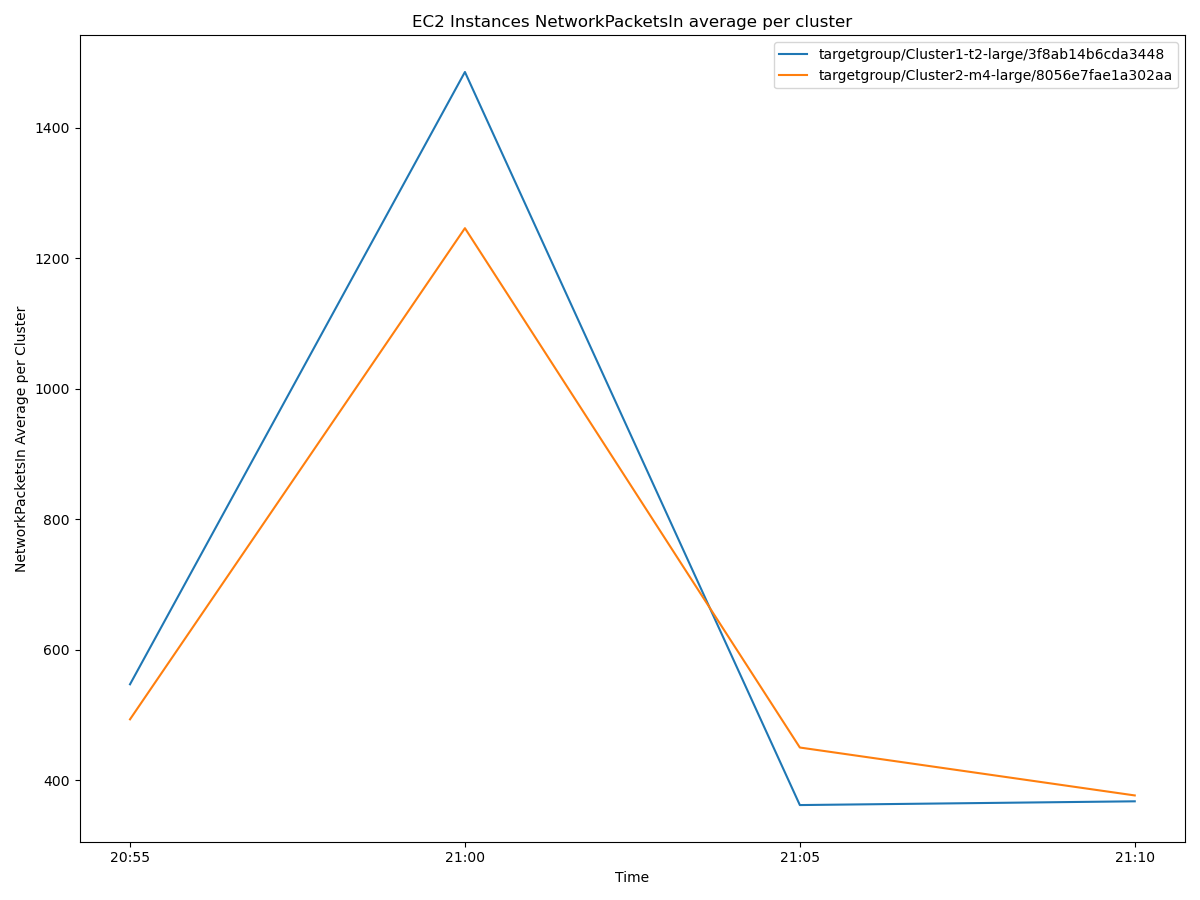
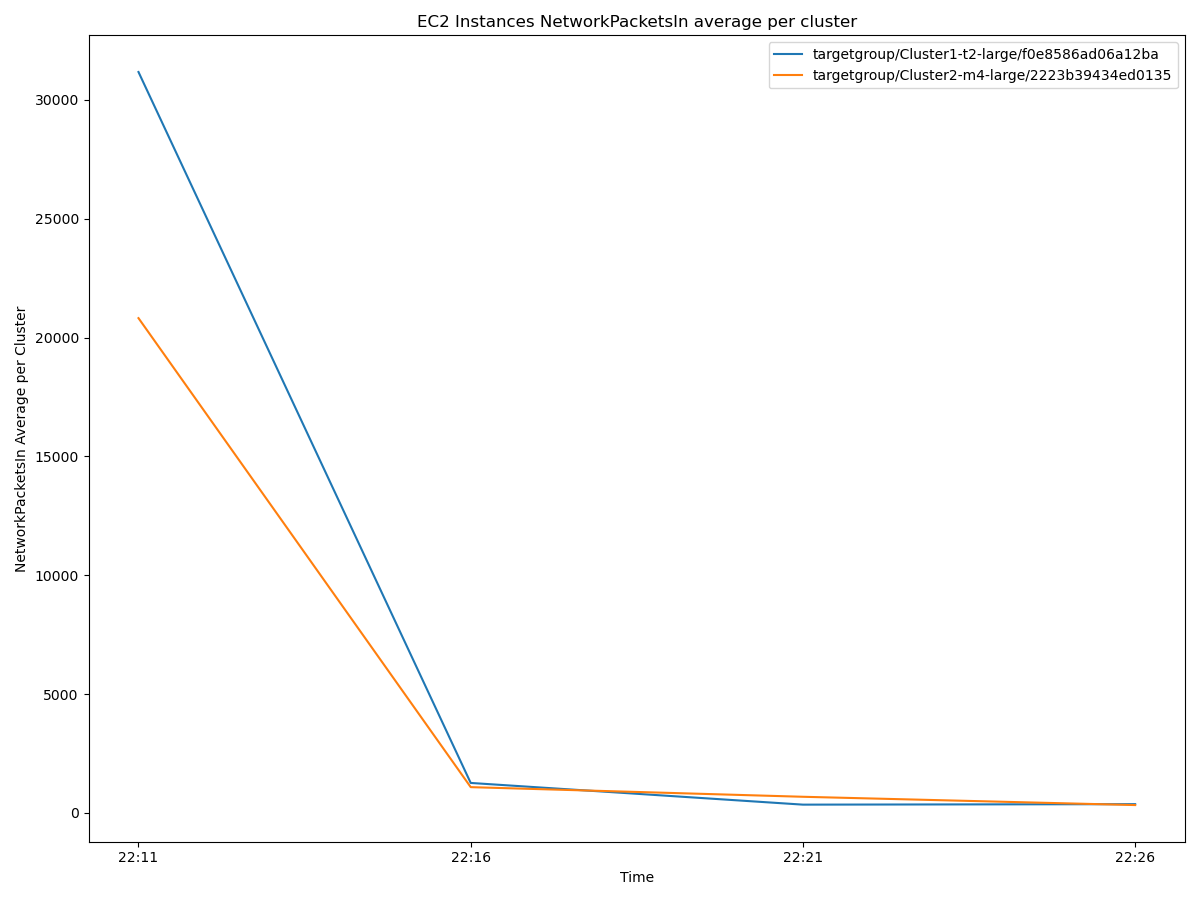
debug metrics code+add plots

diff --git a/TP1/main.py b/TP1/main.py
@@ -155,7 +155,7 @@ if __name__ == '__main__':
     print("\nTarget groups created")
 
     #time to wait for udate ec2 running status before registration in target groups
-    print("\nWaiting for EC2 to become on running status before registration in Target groups")
+    print("\nWaiting for EC2 instances to become on running status before registration in Target groups...")
     time.sleep(120)
 
     #---------------------------------------------Register Targets on target groups --------------------------------------------------
@@ -244,68 +244,88 @@ if __name__ == '__main__':
     #---------------------------------------------Plot metrics -----------------------------------------------------------------------
     #Create Cloudwatch client
     Cloudwatch_client=client_cloudwatch(key_id, access_key, session_token)
-    Cloudwatch_client.list_metrics(Namespace='AWS/EC2',Dimensions=[{'Name': 'InstanceId', 'Value': 'i-0467ba92d72439d9b'}])
-    a=Cloudwatch_client.list_metrics(Dimensions=[{'Name': 'TargetGroup',
-     'Value': 'targetgroup/Cluster2-m4-large/57916b4cfcc026ba'},
-    {'Name': 'LoadBalancer', 'Value': 'app/OurALB/d0f9e6bad4c9e9a3'}])
-    [m['MetricName'] for m in a['Metrics']]
 
     #Target Groups names list
     TargetGroups_arns_list=[target_group_1,target_group_2]
     #Data retrieving period in secondes
-    Period=30
+    Period=60
     #Path to save the plots
     path='Visualizations\\'
 
-    #Retrieve 'RequestCount' metric per cluster
-    RequestCount_dict=get_metric_clusters(Cloudwatch_client,'metric1','RequestCount',load_balancerarn,TargetGroups_arns_list,EndTime-timedelta(minutes=6),EndTime+timedelta(minutes=2),Period,'Sum')
-    RequestCount_dict
-    #Plot 'RequestCount' metric per cluster in the specified path
-    plot_metric_per_cluster(RequestCount_dict,'RequestCount',path)
+    #Function to get a dictionary of timestamps List and Cloudwatch metric Lists of target groups of an ALB in a specific time interval: 
+    def plot_metric_clusters(Cloudwatch_client,Id,MetricName,LoadBalancerarn,TargetGroups_arns_list,Start_Time, End_Time,Period,Stat,path):
+            plt.figure(figsize=(12,9))
+            arn_lb=LoadBalancerarn.split('/')
+            arn_lb=arn_lb[1]+'/'+arn_lb[2]+'/'+arn_lb[3]
+            TargetGroups_Metrics={}
+            for TargterGroup in  TargetGroups_arns_list:
+                arn_tg=TargterGroup.split(':')
+                arn_tg=arn_tg[5]
+                Target_cloudwatch=Cloudwatch_client.get_metric_data(
+                    MetricDataQueries=[
+                        {
+                            'Id':Id,
+                            'MetricStat':{
+                                'Metric':{
+                                    'Namespace': 'AWS/ApplicationELB',
+                                    'MetricName':MetricName,
+                                    'Dimensions':[
+                                        {
+                                            'Name':'LoadBalancer',
+                                            'Value': arn_lb
+                                            
+                                        },
+                                        {
+                                            'Name':'TargetGroup',
+                                            'Value':arn_tg
 
-    #Retrieve 'RequestCountPerTarget' metric per cluster
-    CountRequestPerTarget_dict=get_metric_clusters(Cloudwatch_client,'metric2','RequestCountPerTarget',load_balancerarn,TargetGroups_arns_list,EndTime-timedelta(minutes=6),EndTime+timedelta(minutes=2),60,'Sum')
-    #Plot 'RequestCountPerTarget' metric per cluster in the specified path
-    plot_metric_per_cluster(CountRequestPerTarget_dict,'RequestCountPerTarget',path)
+                                        }
+                                    ],
 
-    #Retrieve 'TargetResponseTime' metric per cluster
-    TargetResponseTime_dict=get_metric_clusters(Cloudwatch_client,'metric3','TargetResponseTime',load_balancerarn,TargetGroups_arns_list,EndTime-timedelta(minutes=6),EndTime+timedelta(minutes=2),60,'Sum')
-    #Plot 'TargetResponseTime' metric per cluster in the specified path
-    plot_metric_per_cluster(TargetResponseTime_dict,'TargetResponseTime',path)
+                                },
+                            'Stat':Stat,
+                            'Period':Period,
 
-    #Retrieve Minimum 'HealthyHostCount' metric per cluster
-    HealthyHostCount_dict=get_metric_clusters(Cloudwatch_client,'metric4','HealthyHostCount',load_balancerarn,TargetGroups_arns_list,EndTime-timedelta(minutes=6),EndTime+timedelta(minutes=2),60,'Minimum')
-    #Plot 'Healthy Hosts' metric per cluster in the specified path
-    plot_metric_per_cluster(HealthyHostCount_dict,'Minimum HealthyHostCount',path)
+                            },
+                            'ReturnData':True
+                        },
+                    ],
+                    StartTime=Start_Time,
+                    EndTime=End_Time,
+                )
+                metric_list=Target_cloudwatch['MetricDataResults'][0]['Values'][::-1]
+                time_stamps=[t.strftime('%H:%M') for t in Target_cloudwatch['MetricDataResults'][0]['Timestamps']][::-1]
+                plt.plot(time_stamps,metric_list,label=arn_lb)
+            plt.xlabel('Time')
+            plt.ylabel(str(MetricName))
+            plt.title(str(MetricName)+' per cluster')
+            plt.legend(loc='upper right')
+            plt.tight_layout()
+            plt.savefig(path+str(MetricName)+'_per_cluster.png')
+
     
+    #Plot 'RequestCount' metric per cluster in the specified path
+    plot_metric_clusters(Cloudwatch_client,'metric1','RequestCount',load_balancerarn,TargetGroups_arns_list,EndTime-timedelta(minutes=6),EndTime+timedelta(minutes=2),Period,'Sum',path)
+
+    #Plot 'RequestCountPerTarget' metric per cluster in the specified path
+    plot_metric_clusters(Cloudwatch_client,'metric2','RequestCountPerTarget',load_balancerarn,TargetGroups_arns_list,EndTime-timedelta(minutes=6),EndTime+timedelta(minutes=2),Period,'Sum',path)
+
+    #Plot 'TargetResponseTime' metric per cluster in the specified path
+    plot_metric_clusters(Cloudwatch_client,'metric3','TargetResponseTime',load_balancerarn,TargetGroups_arns_list,EndTime-timedelta(minutes=6),EndTime+timedelta(minutes=2),Period,'Sum',path)
+    
+    #Plot 'Healthy Hosts' metric per cluster in the specified path
+    plot_metric_clusters(Cloudwatch_client,'metric4','HealthyHostCount',load_balancerarn,TargetGroups_arns_list,EndTime-timedelta(minutes=6),EndTime+timedelta(minutes=2),Period,'Minimum',path)
+
     #Instances Ids of TG1
     Instances_Ids_TG1=[Instance for Instance in instances_t2 ]
     #Instances Ids of TG2
     Instances_Ids_TG2=[Instance for Instance in instances_m4 ]
-   
-    #Retrieve Average 'CPUUtilization' metric of all instances per cluster
-    CPUutilization_TG1_dict=get_average_Instances_metrics_per_cluster(Cloudwatch_client,'metric5','CPUUtilization',Instances_Ids_TG1,EndTime-timedelta(minutes=10), EndTime+timedelta(minutes=10),60,'Sum') 
-    CPUutilization_TG2_dict=get_average_Instances_metrics_per_cluster(Cloudwatch_client,'metric6','CPUUtilization',Instances_Ids_TG2,EndTime-timedelta(minutes=10), EndTime+timedelta(minutes=10),60,'Sum') 
+    
     #Plot Average 'CPUUtilization' metric of all instances per cluster
-    plot_average_Instances_metrics_per_cluster(CPUutilization_TG1_dict,CPUutilization_TG2_dict,target_group_1,target_group_2,'CPUUtilization',path)
+    plot_Instances_metrics_per_cluster(Cloudwatch_client,'metric5',TargetGroup1_name,'CPUUtilization',Instances_Ids_TG1,EndTime-timedelta(minutes=60), EndTime,Period,'Average',path)
+    plot_Instances_metrics_per_cluster(Cloudwatch_client,'metric6',TargetGroup2_name,'CPUUtilization',Instances_Ids_TG2,EndTime-timedelta(minutes=60), EndTime,Period,'Average',path)
 
-    #Retrieve Average 'NetworkPacketsIn' metric of all instances per cluster
-    NetworkPacketsIn_TG1_dict=get_average_Instances_metrics_per_cluster(Cloudwatch_client,'metric7','NetworkPacketsIn',Instances_Ids_TG1,EndTime-timedelta(minutes=10), EndTime+timedelta(minutes=10),60,'Sum') 
-    NetworkPacketsIn_TG2_dict=get_average_Instances_metrics_per_cluster(Cloudwatch_client,'metric8','NetworkPacketsIn',Instances_Ids_TG2,EndTime-timedelta(minutes=10), EndTime+timedelta(minutes=10),60,'Sum') 
     #Plot Average 'NetworkPacketsIn' metric of all instances per cluster
-    plot_average_Instances_metrics_per_cluster(NetworkPacketsIn_TG1_dict,NetworkPacketsIn_TG2_dict,target_group_1,target_group_2,'NetworkPacketsIn',path)
-
-#3============================>Termination and deletion
-    time.sleep(120)
-    #Terminate EC2 instances when not needed
-    total_instances=instances_t2+instances_m4
-    #terminate_instances(ec2_serviceresource,total_instances)
-    print('Instances terminated')
-    time.sleep(20)
-    #Delete load balancer when not needed
-    delete_load_balancer(elbv2_serviceclient,load_balancerarn)
-    print('Load balancer deleted')
-    time.sleep(20)
-    #Delete target groups when not needed
-    delete_target_groups(elbv2_serviceclient,[target_group_1,target_group_2]) 
-    print('Target groups deleted') 
+    plot_Instances_metrics_per_cluster(Cloudwatch_client,'metric7',TargetGroup1_name,'NetworkPacketsIn',Instances_Ids_TG1,EndTime-timedelta(minutes=60), EndTime,Period,'Sum',path)
+    plot_Instances_metrics_per_cluster(Cloudwatch_client,'metric8',TargetGroup2_name,'NetworkPacketsIn',Instances_Ids_TG2,EndTime-timedelta(minutes=60), EndTime,Period,'Sum',path)
+    

diff --git a/TP1/metrics_visualization.py b/TP1/metrics_visualization.py
@@ -12,11 +12,11 @@ def client_cloudwatch(aws_access_key_id, aws_secret_access_key, aws_session_toke
     
     return(cloudwatch_client)
 
-#Function to get a dictionary of timestamps List and Cloudwatch metric Lists of target groups of an ALB in a specific time interval: 
-def get_metric_clusters(Cloudwatch_client,Id,MetricName,LoadBalancerarn,TargetGroups_arns_list,Start_Time, End_Time,Period,Stat):
+#Function to get and plot Cloudwatch metrics per target groups of an ALB in a specific time interval: 
+def plot_metric_clusters(Cloudwatch_client,Id,MetricName,LoadBalancerarn,TargetGroups_arns_list,Start_Time, End_Time,Period,Stat,path):
+        plt.figure(figsize=(12,9))
         arn_lb=LoadBalancerarn.split('/')
         arn_lb=arn_lb[1]+'/'+arn_lb[2]+'/'+arn_lb[3]
-        TargetGroups_Metrics={}
         for TargterGroup in  TargetGroups_arns_list:
             arn_tg=TargterGroup.split(':')
             arn_tg=arn_tg[5]
@@ -54,19 +54,7 @@ def get_metric_clusters(Cloudwatch_client,Id,MetricName,LoadBalancerarn,TargetGr
             )
             metric_list=Target_cloudwatch['MetricDataResults'][0]['Values'][::-1]
             time_stamps=[t.strftime('%H:%M') for t in Target_cloudwatch['MetricDataResults'][0]['Timestamps']][::-1]
-            TargetGroups_Metrics[arn_tg]=metric_list
-            TargetGroups_Metrics['timestamps']=time_stamps
-
-        return TargetGroups_Metrics
-
-#Function to plot metric values of all target groups of an ALB in one graph and save it in a path
-def plot_metric_per_cluster(values_timestamp_dict,MetricName,path):
-    
-        time=values_timestamp_dict['timestamps']
-        del values_timestamp_dict['timestamps']
-        plt.figure(figsize=(12,9))
-        for key in list(values_timestamp_dict.keys()):
-            plt.plot(time,values_timestamp_dict[key],label=str(key))
+            plt.plot(time_stamps,metric_list,label=arn_tg)
         plt.xlabel('Time')
         plt.ylabel(str(MetricName))
         plt.title(str(MetricName)+' per cluster')
@@ -75,10 +63,11 @@ def plot_metric_per_cluster(values_timestamp_dict,MetricName,path):
         plt.savefig(path+str(MetricName)+'_per_cluster.png')
 
 
-#Function to get average of a metric of EC2 instances per cluster: 
-def get_average_Instances_metrics_per_cluster(Cloudwatch_client,Id,MetricName,Instances_Ids,Start_Time, End_Time,Period,Stat):
-        EC2_Metrics={}
-        for EC2_Id in Instances_Ids:
+#Function to get and plot instances metrics per cluster and save it in a graph: 
+def plot_Instances_metrics_per_cluster(Cloudwatch_client,Id,Cluster_name,MetricName,Instances_Ids,Start_Time, End_Time,Period,Stat,path):
+        plt.figure(figsize=(12,9))
+        for i in range(len(Instances_Ids)) :
+            EC2_Id=Instances_Ids[i]
             EC2_Cloudwatch=Cloudwatch_client.get_metric_data(
                 MetricDataQueries=[
                     {
@@ -103,32 +92,17 @@ def get_average_Instances_metrics_per_cluster(Cloudwatch_client,Id,MetricName,In
                 StartTime=Start_Time,
                 EndTime=End_Time
                 )
-            EC2_Metrics[EC2_Id]=EC2_Cloudwatch['MetricDataResults'][0]['Values'][::-1]
-        
-        Average_metric=[sum(i)/len(i) for i in zip(*EC2_Metrics.values())]
-        time_stamps=[t.strftime('%H:%M') for t in EC2_Cloudwatch['MetricDataResults'][0]['Timestamps']][::-1]
-        
-        EC2_Metrics[str(MetricName)]=Average_metric
-        EC2_Metrics['timestamps']=time_stamps
+            metric=EC2_Cloudwatch['MetricDataResults'][0]['Values'][::-1]
+            timestimps=[t.strftime('%H:%M') for t in EC2_Cloudwatch['MetricDataResults'][0]['Timestamps']][::-1]
+            plt.plot(timestimps,metric,label=Cluster_name+' EC2_Id= '+EC2_Id)
+            plt.xlabel('Time')
+            plt.ylabel(str(MetricName)+' per instance')
+            plt.title('EC2 Instances '+str(MetricName)+ ' of: '+Cluster_name)
+            plt.legend(loc='upper right')
+            plt.tight_layout()
+            plt.savefig(path+'EC2_Instances_'+str(MetricName)+'_of_'+Cluster_name+'.png')
 
-        return EC2_Metrics
+        
+        
    
 
-#Function to get average of a metric of EC2 instances per cluster and save the graph in a path
-def plot_average_Instances_metrics_per_cluster(values_timestamp_TG1,values_timestamp_TG2,TargetGroup_1arn,TargetGroup_2arn,MetricName,path):
-        arn_tg1=TargetGroup_1arn.split(':')
-        arn_tg1=arn_tg1[5]
-        arn_tg2=TargetGroup_2arn.split(':')
-        arn_tg2=arn_tg2[5]
-        time=values_timestamp_TG1['timestamps']
-        Average_metric_TG1=values_timestamp_TG1[str(MetricName)]
-        Average_metric_TG2=values_timestamp_TG2[str(MetricName)]
-        plt.figure(figsize=(12,9))
-        plt.plot(time,Average_metric_TG1,label=arn_tg1)
-        plt.plot(time,Average_metric_TG2,label=arn_tg2)
-        plt.xlabel('Time')
-        plt.ylabel(str(MetricName)+' Average per Cluster')
-        plt.title('EC2 Instances '+str(MetricName)+' average per cluster')
-        plt.legend(loc='upper right')
-        plt.tight_layout()
-        plt.savefig(path+'EC2_Instances_'+str(MetricName)+'_average_per_cluster'+'.png')
